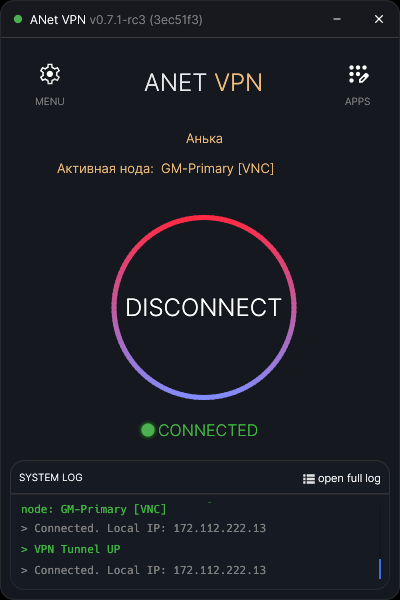
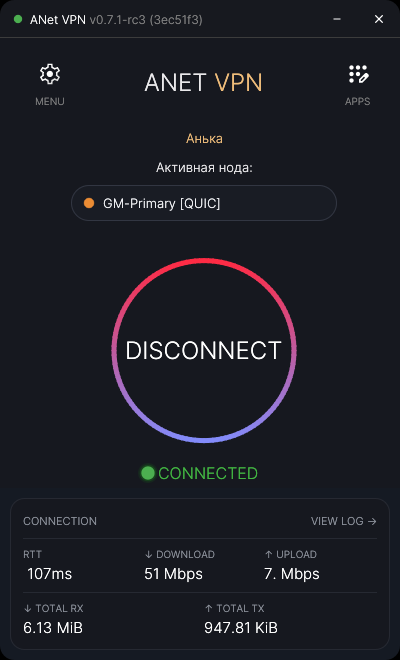
v0.5.2 gui fix

diff --git a/anet-client-gui/src/main.rs b/anet-client-gui/src/main.rs
@@ -51,7 +51,7 @@ fn main() -> Result<(), eframe::Error> {
 let options = eframe::NativeOptions {
     viewport: egui::ViewportBuilder::default()
         .with_title(window_title)
-        .with_inner_size([400.0, 620.0])
+        .with_inner_size([400.0, 660.0])
         .with_icon(icon)
         .with_resizable(false)
         .with_decorations(false) // <--- Отключаем стандартную рамку и шапку ОС

diff --git a/README.md b/README.md
@@ -86,6 +86,7 @@ make cert
 <img src=".assets/desktop-4.png" height="380" alt="Управление приложениями" />
 <img src=".assets/desktop-5.png" height="380" alt="Обновления" />
 <img src=".assets/desktop-6.png" height="380" alt="Управление настройками" />
+<img src=".assets/desktop-7.png" height="380" alt="Выбор ноды" />
 </p>
 
 
